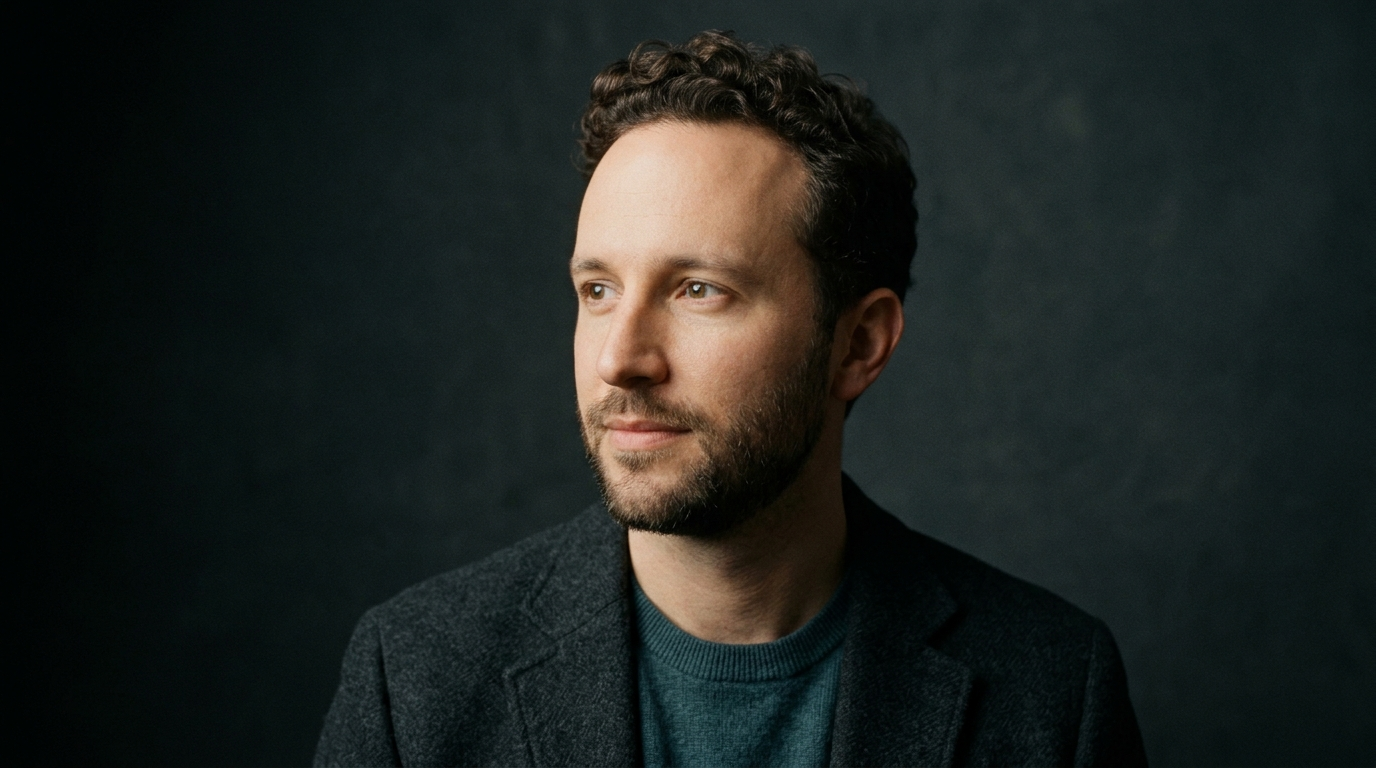
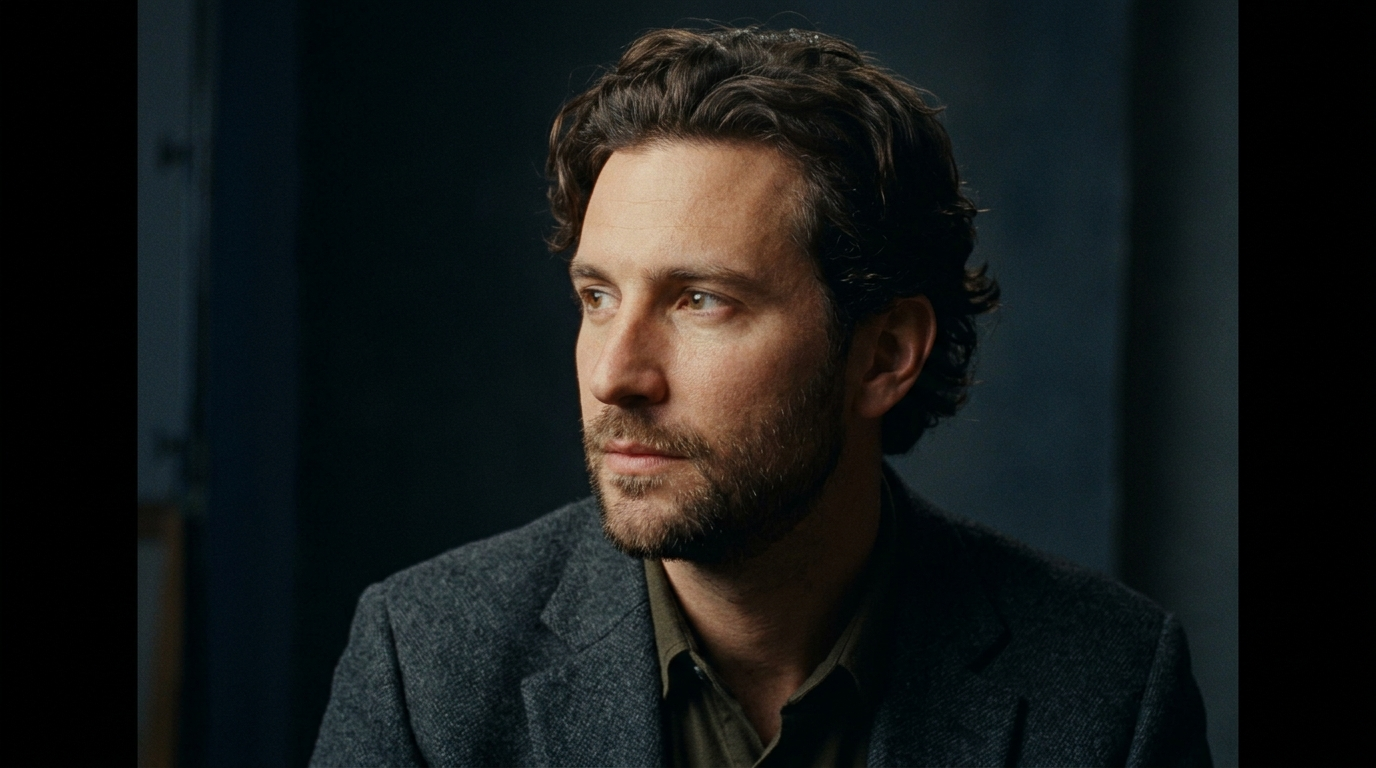
feat(technique): inverser la source lumineuse pour l'éclairage large (broad)

diff --git a/sw.js b/sw.js
@@ -1,5 +1,5 @@
 // Généré par outils/generer-sw.mjs — ne pas modifier à la main
-const VERSION = 'jco-715739b7a1';
+const VERSION = 'jco-56e41bb17c';
 const PRECACHE = ["./",
   "./css/app.css",
   "./fonts/fraunces-latin-opsz-normal.woff2",
